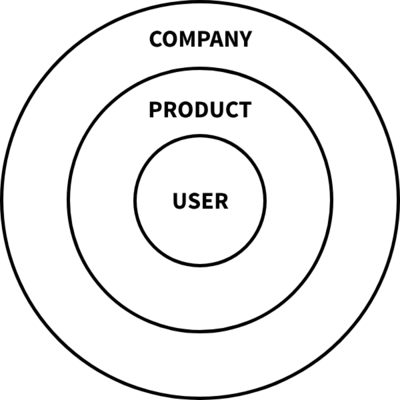
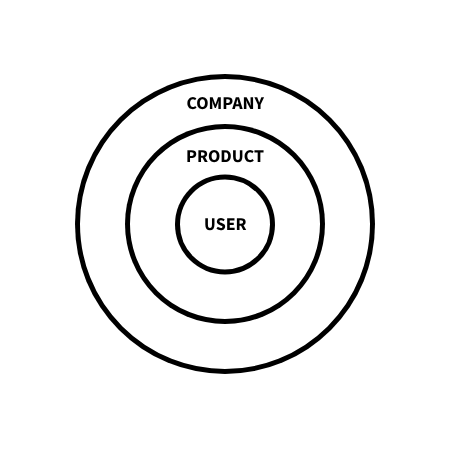
Edits for the startup 2025 kickoff post

diff --git a/data/posts/0082-startup-2025-kickoff.md b/data/posts/0082-startup-2025-kickoff.md
@@ -5,7 +5,7 @@
 
 ---
 
-With reflection on Henrik Karlsson's note about designing lifestyle, I have made a list of my
+With reflection on Henrik Karlsson's note about designing lifestyle [1], I have made a list of my
 current constraints:
 
 1. Constant learning
@@ -13,39 +13,38 @@ current constraints:
 3. Mental and physical energy for a social life
 4. Positive cash flow within the next 18-24 months
 
-My goal is to be able to meet these constraints in a sustainable way. Reflecting over my career so
-far, the lifestyle that I have adopted while working in the software industry has not been
-sustainable. I have taken two sabbaticals--measured in months and not weeks--in the eight years of
-my career. Something needs to change.
+My goal is to be able to meet these constraints in a sustainable way. I have spent my career up to
+now, adopting an unsustainable lifestyle while working in the software industry. I have taken two
+sabbaticals--measured in months and not weeks--in the eight years of my career. Something needs to
+change.
 
-Having worked for three companies over my career, I now have enough datapoints to see a developing
-trend. I tend to throw my whole self into my work; finding my identity in my role and taking on the
-lifestyle that comes with it. When I am not at work, I spend at least half of my free time reading,
-writing, and learning about how to improve in my role. I would spend 80+ hours a week either
-actively working or thinking about work. This has served me well in terms of career growth and
-promotion, but at the cost of diversity and balance of experiences in life. 
+Having worked for three companies, I now have enough datapoints to see a developing trend. I throw
+my whole self into my work; finding my identity in my role and taking on the lifestyle that comes
+with it. When I am not at work, I spend at least half of my free time reading, writing, and learning
+about how to improve in my role and in my career. I spent a total of 80+ hours a week either at work
+or actively thinking about work while "off the clock". This approach has served me well in terms of
+career growth and promotion, but at the cost of diversity and balance of experiences in life. 
 
 In any job, there is always a risk of finding a misalignment between where I want to be and the
-direction that the organization that I am working for is going. With the massive amounts of energy
-invested in growing in my role and career, finding this misalignment ends in pretty extreme burnout,
-requiring months away from the industry to dig my way out. 
+direction that the organization for is going. With the massive amounts of energy invested in career
+growth, finding this misalignment ends in pretty extreme burnout, requiring months away from the
+industry to dig my way out. 
 
-So, how can I meet all of these constraints? Well, for the next 12-18 months, I am going to be
-designing and building my daily life around West Coast Swing. This meets constraints 1 through 3.
-Following the fact that I am best when minimizing the number of directions my energy goes, a friend
-and I are going to be starting a mobile app project that is loosely related to dancing, with the
-distant hopes that we can meet constraint number 4. In all, building a startup seems to be the
-current answer.
+So, how can I meet all of these constraints? Well, for the next year or so, I am going to be
+designing and building my daily life around West Coast Swing. This meets constraints 1 through 3. To
+work towards meeting constraint number 4, a small team and I are going to be starting a mobile app
+project that is loosely related to dancing. Building an app startup to solve a problem that we are
+seeing in body movement sports seems to be the current solution to all of the constraints.
 
-This post is the kickoff to a series that will follow our progress as we build a startup in 2025:
-discussing the problems that we run into and the decisions that we make to overcome them.
+This post is the kickoff to a series that will be following our progress as we build a startup in
+2025: discussing the problems that we run into and the decisions that we make to overcome them.
 
 
 ## Project Kickoff
 
 Since alignment is the most important aspect of the success of a project, we started there. The team
 needed to align on what success of the projects looks like. We determined that getting to an MVP
-launch with little to no negative monthly cash flow would be considered a success. Anything on top
+launch with little-to-no negative monthly cash flow would be considered a success. Anything on top
 of that would be icing on the cake. 
 
 ![Project Milestones](/posts/0082/project-milestones.png)
@@ -58,20 +57,18 @@ of that would be icing on the cake.
 | 3. Positive Cash Flow (Personal) | If we can achieve enough ARR, we will be able to cover growing cloud costs and no longer require personal bootstrapping in time investment. | ~1000-1500 |
 | 4. Full Salaries! | This is our moonshot! It would be really cool if we could work on the app full-time and make a livable wage. | ~5000-10000 |
 
-Because we have a moonshot of building a company around the product, our initial goal is getting to
-Milestone 2. We will be adopting a Product Led Growth (PLG) model that builds the product around
-the user and the company around the product.
+With our moonshot of building a company around the product, our initial goal is getting to Milestone
+2. We will be adopting a Product Led Growth (PLG) model that builds the product around the user and
+the company around the product. Every product and company decision will be aligned with this model.
+Incidentally, lean management pairs extremely well with PLG with the focus on delivering value to
+the user and eliminating waste in the delivery process.
 
 ![PLG Model](/posts/0082/PLG-circles.png)
-
-Every product and company decision will be aligned with this model. Incidentally, lean management
-pairs extremely well with PLG with the focus on delivering value to the user and eliminating waste
-in the delivery process.
 
 In addition to PLG and Lean, we are going to be following a project development strategy that
 incorporates routine check-ins (gate reviews) to make sure that continued investment still makes
 sense, even prior to _MVP Launch_. If one of these check-ins results in a decision to kill the
-product, we will also consider the learnings getting there a success.
+product, we will also consider everything that we have learned up to that point a success.
 
 Keep and eye out for an upcoming post will be doing a more in-depth review of our product
 development strategy and how we planning for the gate review sessions.
